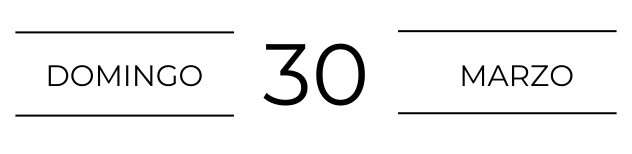
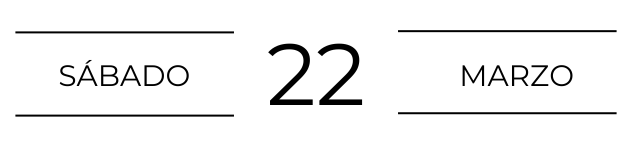
ac
ac

Changed region(s): [[0.3908, 0.2597, 0.6013, 0.7013], [0.0601, 0.3896, 0.3307, 0.5714]]

diff --git a/index.html b/index.html
@@ -12,7 +12,7 @@
     href="https://cdnjs.cloudflare.com/ajax/libs/animate.css/4.1.1/animate.min.css"
   />
 <link href="https://unpkg.com/aos@2.3.1/dist/aos.css" rel="stylesheet">
-    <title>Selena</title>
+    <title>Serena</title>
 </head>
 <body>
     <header>
@@ -58,7 +58,7 @@
             <h2>FIESTA</h2>
             <br>
             <img class="datos" src="./figuras/05.png" alt="">
-            <p><strong>Te espero para festejar juntos en <br> Salón "Janos Ramos II" <br> Av. de Mayo 1848, Ramos Mejía <br> de 13 a 21hs.</strong>  <br> Hace clic para saber como llegar </p>
+            <p><strong>Te espero para festejar juntos en <br> Salón "Janos Ramos II" <br> Av. de Mayo 1848, Ramos Mejía <br> de 21 a 05 hs.</strong>  <br> Hace clic para saber como llegar </p>
             <a class="boton" href="https://www.google.com/maps?gs_lcrp=EgZjaHJvbWUyBggAEEUYOTIHCAEQIRigAdIBBzUwNWowajeoAgCwAgA&um=1&ie=UTF-8&fb=1&gl=ar&sa=X&geocode=KSVJ-eKxx7yVMXt5UnY3Fy9G&daddr=Av.+de+Mayo+1848,+B1704+Ramos+Mej%C3%ADa,+Provincia+de+Buenos+Aires">CÓMO LLEGAR</a>
         </div>
     </div>

diff --git a/script.js b/script.js
@@ -1,5 +1,5 @@
 // Establecer la fecha de destino (puedes ajustarla según tus necesidades)
-const fechaDestino = new Date("2025-03-30T23:59:59");
+const fechaDestino = new Date("2025-03-22T23:59:59");
 
 function actualizarContador() {
   const ahora = new Date();
